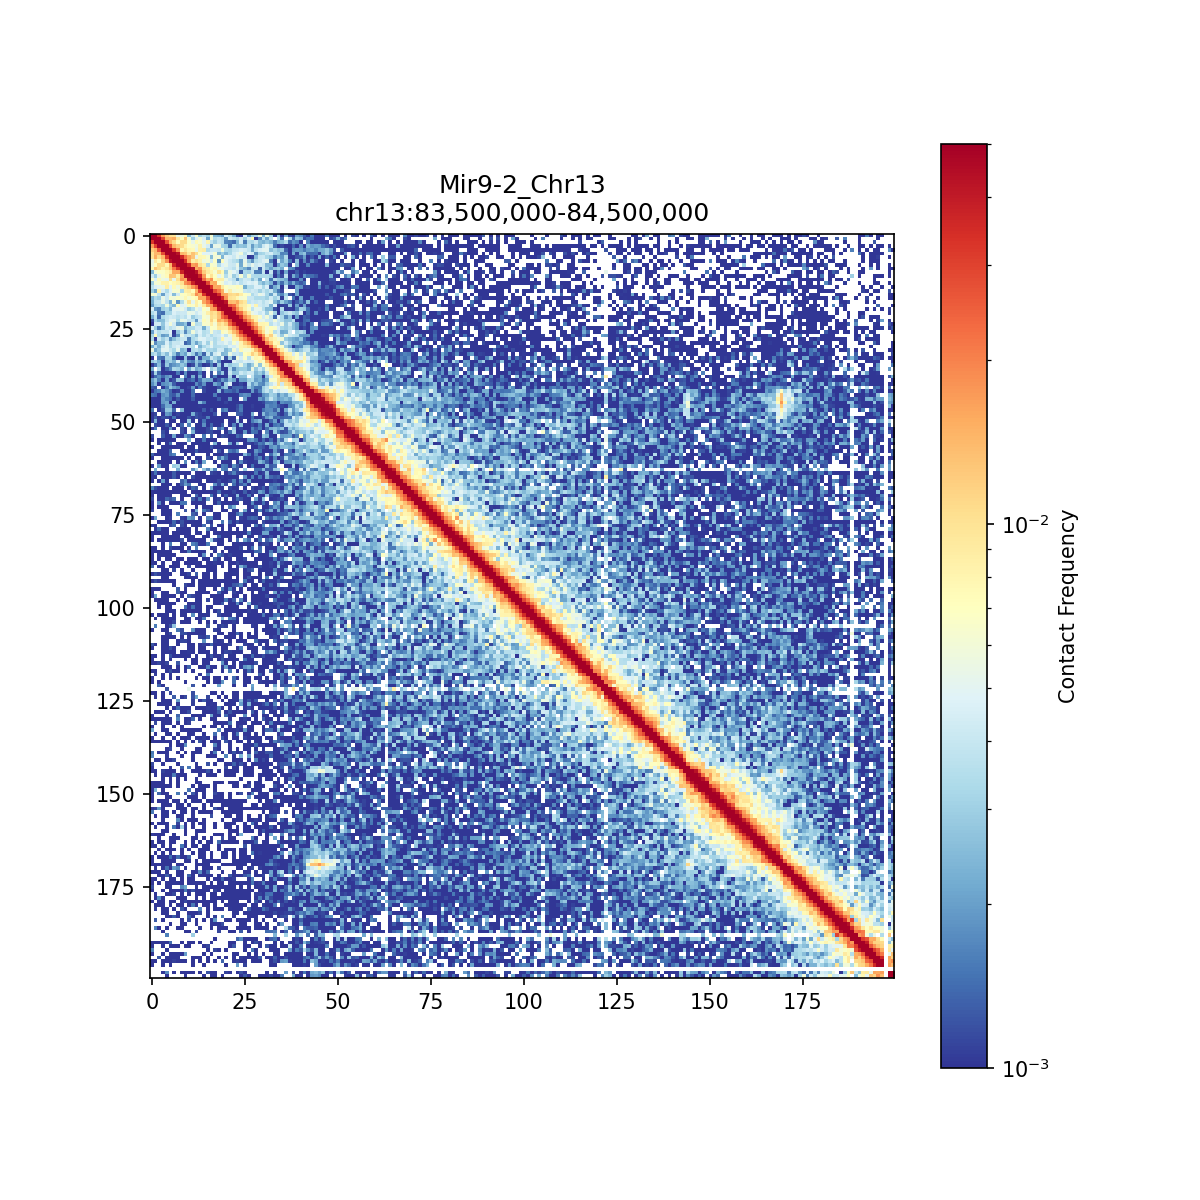
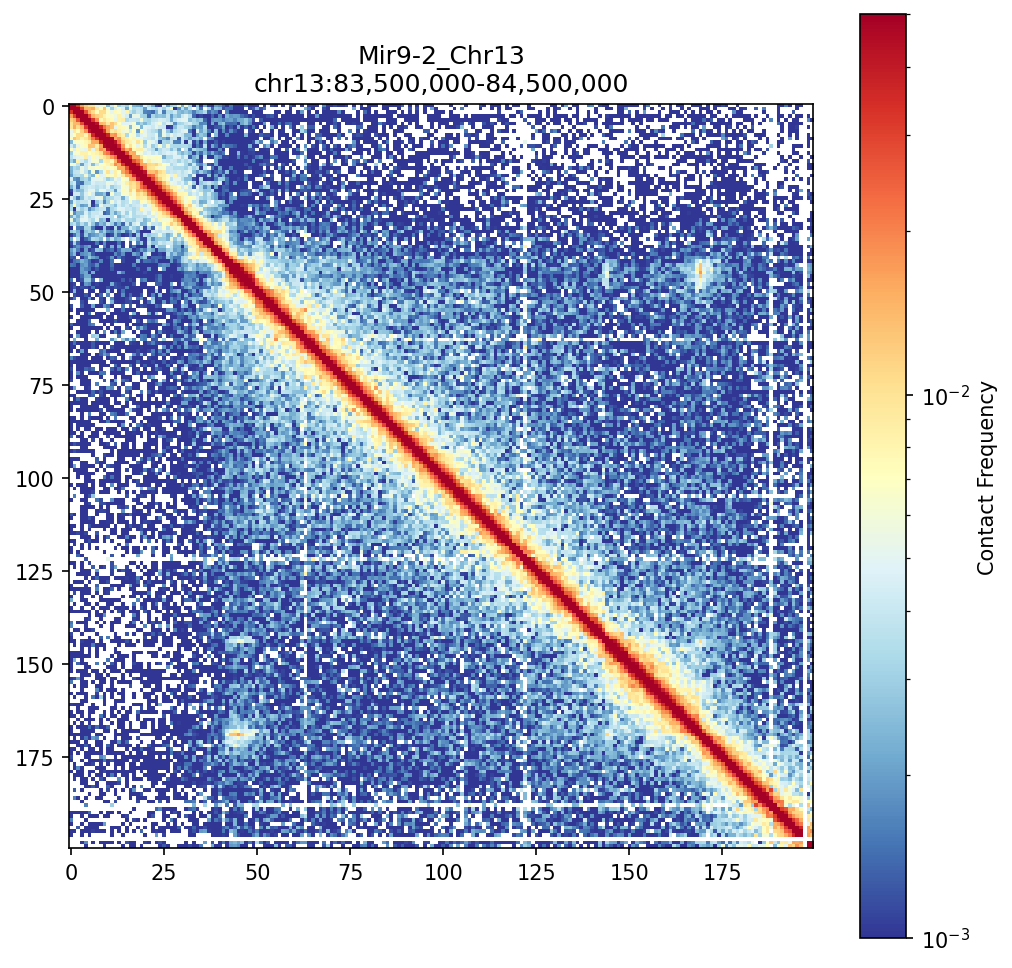
add some nice tad images

diff --git a/visualize_tads.py b/visualize_tads.py
@@ -1,8 +1,12 @@
 import cooler
+import pandas as pd
 import matplotlib.pyplot as plt
 import matplotlib.colors as colors
 import numpy as np
 import os
+import bioframe
+import cooltools
+from matplotlib.gridspec import GridSpec
 
 # got data from 
 # https://data.4dnucleome.org/experiment-set-replicates/4DNES14CNC1I/#details
@@ -20,7 +24,8 @@ RESOLUTION = 5000
 # We add a buffer to see the boundaries around the genes
 regions = {
     "Sox11_Chr12": "chr12:26,000,000-28,000,000", 
-    "Mir9-2_Chr13": "chr13:83,500,000-84,500,000"
+    "Mir9-2_Chr13": "chr13:83,500,000-84,500,000",
+    "Compartments_Chr2": "chr2:0-50,000,000"
 }
 
 def plot_region(file_path, region_name, coordinates):
@@ -55,7 +60,157 @@ def plot_region(file_path, region_name, coordinates):
     
     # 4. Save
     output_filename = f"{region_name}_heatmap.png"
-    plt.savefig(output_filename, dpi=150)
+    plt.savefig(output_filename, dpi=150, bbox_inches='tight')
+    print(f"Saved to {output_filename}")
+    plt.close()
+
+def plot_triangular_region(file_path, region_name, coordinates):
+    print(f"Processing triangular {region_name}...")
+    
+    uri = f"{file_path}::resolutions/{RESOLUTION}"
+    try:
+        clr = cooler.Cooler(uri)
+    except Exception as e:
+        print(f"Error: Could not load file. {e}")
+        return
+
+    # 1. Fetch matrix
+    matrix = clr.matrix(balance=True).fetch(coordinates)
+    n = matrix.shape[0]
+
+    # 2. Create coordinates for pcolormesh
+    # Standard Hi-C triangle transformation:
+    # x = (i + j) / 2
+    # y = (j - i) / 2
+    # We use n+1 to define the corners of the bins
+    x = np.arange(n + 1)
+    y = np.arange(n + 1)
+    X, Y = np.meshgrid(x, y)
+    
+    X_tri = (X + Y) / 2
+    Y_tri = (Y - X) / 2
+
+    # 3. Visualize
+    # Adjust aspect ratio to make it look like a triangle (wider than tall)
+    plt.figure(figsize=(12, 4))
+    
+    # Use pcolormesh for the rotated grid
+    # We only plot where Y >= X (the upper triangle)
+    # Norm and cmap consistent with the original heatmap
+    im = plt.pcolormesh(
+        X_tri, Y_tri, matrix,
+        cmap='RdYlBu_r',
+        norm=colors.LogNorm(vmin=0.001, vmax=0.05),
+        edgecolors='none'
+    )
+    
+    # Remove the bottom half (where Y_tri < 0)
+    plt.ylim(0, n / 2)
+    # The X range is roughly [0, n]
+    plt.xlim(0, n)
+    
+    plt.title(f"{region_name} (Triangular)\n{coordinates}")
+    plt.colorbar(im, label="Contact Frequency", pad=0.02)
+    
+    # Clean up axes
+    plt.gca().set_aspect('equal')
+    plt.axis('off')
+
+    # 4. Save
+    output_filename = f"{region_name}_triangular.png"
+    plt.savefig(output_filename, dpi=150, bbox_inches='tight')
+    print(f"Saved to {output_filename}")
+    plt.close()
+
+def plot_compartments(file_path, region_name, coordinates):
+    print(f"Processing compartments for {region_name}...")
+    
+    # Use 100kb for large regions to see compartments
+    COMP_RESOLUTION = 100000
+    uri = f"{file_path}::resolutions/{COMP_RESOLUTION}"
+    
+    try:
+        clr = cooler.Cooler(uri)
+    except Exception as e:
+        print(f"Error: Could not load file. {e}")
+        return
+
+    # 1. Calculate Eigenvectors (E1) for the whole chromosome
+    chrom = coordinates.split(':')[0]
+    # We need the whole chromosome for eigs_cis usually, or at least a large chunk
+    # bioframe.fetch_chromsizes('mm10') could be used if we had it, 
+    # but we can get it from the cooler
+    chromsizes = clr.chromsizes
+    
+    # Calculate eigenvectors for the chromosome
+    print(f"  Calculating eigenvectors for {chrom} at {COMP_RESOLUTION}bp resolution...")
+    cis_eigs = cooltools.eigs_cis(
+        clr, 
+        view_df=pd.DataFrame({'chrom': [chrom], 'start': [0], 'end': [chromsizes[chrom]], 'name': [chrom]}),
+        n_eigs=1
+    )
+    
+    # Get E1 for our specific region
+    e1_track = cis_eigs[1] # [0] is the view/bins, [1] is the eigenvectors
+    
+    # Filter for our region
+    start_bp, end_bp = map(lambda x: int(x.replace(',', '')), coordinates.split(':')[1].split('-'))
+    region_bins = e1_track[(e1_track['chrom'] == chrom) & 
+                           (e1_track['start'] >= start_bp) & 
+                           (e1_track['end'] <= end_bp)]
+    
+    e1_values = region_bins['E1'].values
+    
+    # 2. Fetch triangular matrix for the region
+    matrix = clr.matrix(balance=True).fetch(coordinates)
+    n = matrix.shape[0]
+
+    # Create coordinates for pcolormesh
+    x = np.arange(n + 1)
+    y = np.arange(n + 1)
+    X, Y = np.meshgrid(x, y)
+    X_tri = (X + Y) / 2
+    Y_tri = (Y - X) / 2
+
+    # 3. Visualize with 1D track
+    fig = plt.figure(figsize=(12, 10))
+    # GridSpec: 1 row for E1 (small), 1 row for triangular heatmap (large)
+    gs = GridSpec(2, 1, height_ratios=[1, 3], hspace=0.05)
+    
+    # Top Axis: E1 Track
+    ax_e1 = fig.add_subplot(gs[0])
+    ax_e1.plot(np.arange(len(e1_values)), e1_values, color='black', lw=1)
+    ax_e1.fill_between(np.arange(len(e1_values)), 0, e1_values, 
+                       where=(e1_values > 0), color='red', alpha=0.3, interpolate=True)
+    ax_e1.fill_between(np.arange(len(e1_values)), 0, e1_values, 
+                       where=(e1_values < 0), color='blue', alpha=0.3, interpolate=True)
+    ax_e1.axhline(0, color='grey', lw=0.5)
+    ax_e1.set_ylabel("E1 (Eigenvector)")
+    ax_e1.set_xlim(0, len(e1_values))
+    ax_e1.set_title(f"Compartments for {region_name} ({coordinates})")
+    ax_e1.set_xticks([]) # Hide x-ticks as they align with heatmap
+    
+    # Bottom Axis: Triangular Heatmap
+    ax_heat = fig.add_subplot(gs[1])
+    im = ax_heat.pcolormesh(
+        X_tri, Y_tri, matrix,
+        cmap='RdYlBu_r',
+        norm=colors.LogNorm(vmin=0.0001, vmax=0.01), # Adjusted for 100kb
+        edgecolors='none'
+    )
+    
+    ax_heat.set_ylim(0, n / 2)
+    ax_heat.set_xlim(0, n)
+    ax_heat.set_aspect('equal')
+    ax_heat.axis('off')
+    
+    # Add colorbar
+    cax = fig.add_axes([0.92, 0.15, 0.02, 0.5])
+    fig.colorbar(im, cax=cax, label="Contact Frequency")
+
+    # 4. Save
+    output_filename = f"{region_name}_triangular_track.png"
+    plt.savefig(output_filename, dpi=150, bbox_inches='tight')
     print(f"Saved to {output_filename}")
     plt.close()
 
@@ -64,4 +219,8 @@ if __name__ == "__main__":
         print(f"STOP: I can't find the file at {FILE_PATH}")
     else:
         for name, coords in regions.items():
-            plot_region(FILE_PATH, name, coords)
+            if "Compartments" in name:
+                plot_compartments(FILE_PATH, name, coords)
+            else:
+                plot_region(FILE_PATH, name, coords)
+                plot_triangular_region(FILE_PATH, name, coords)
